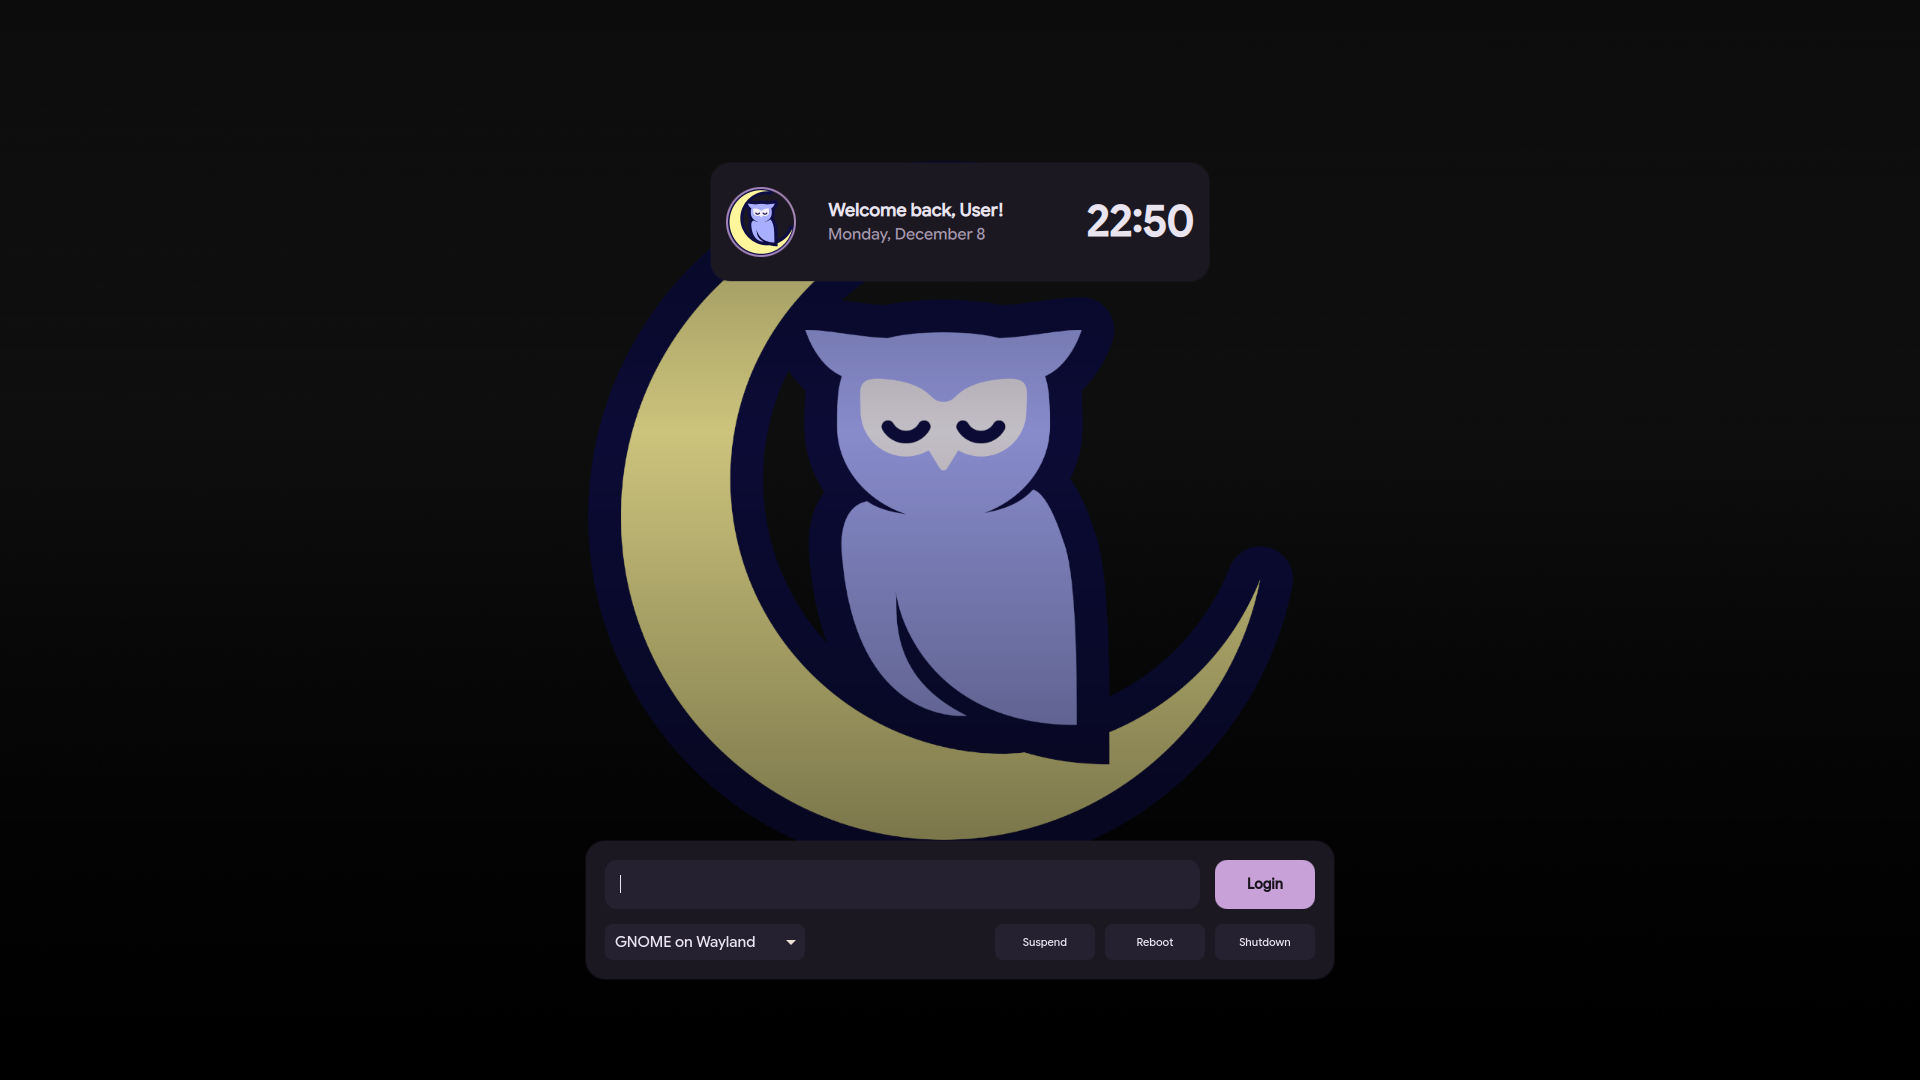
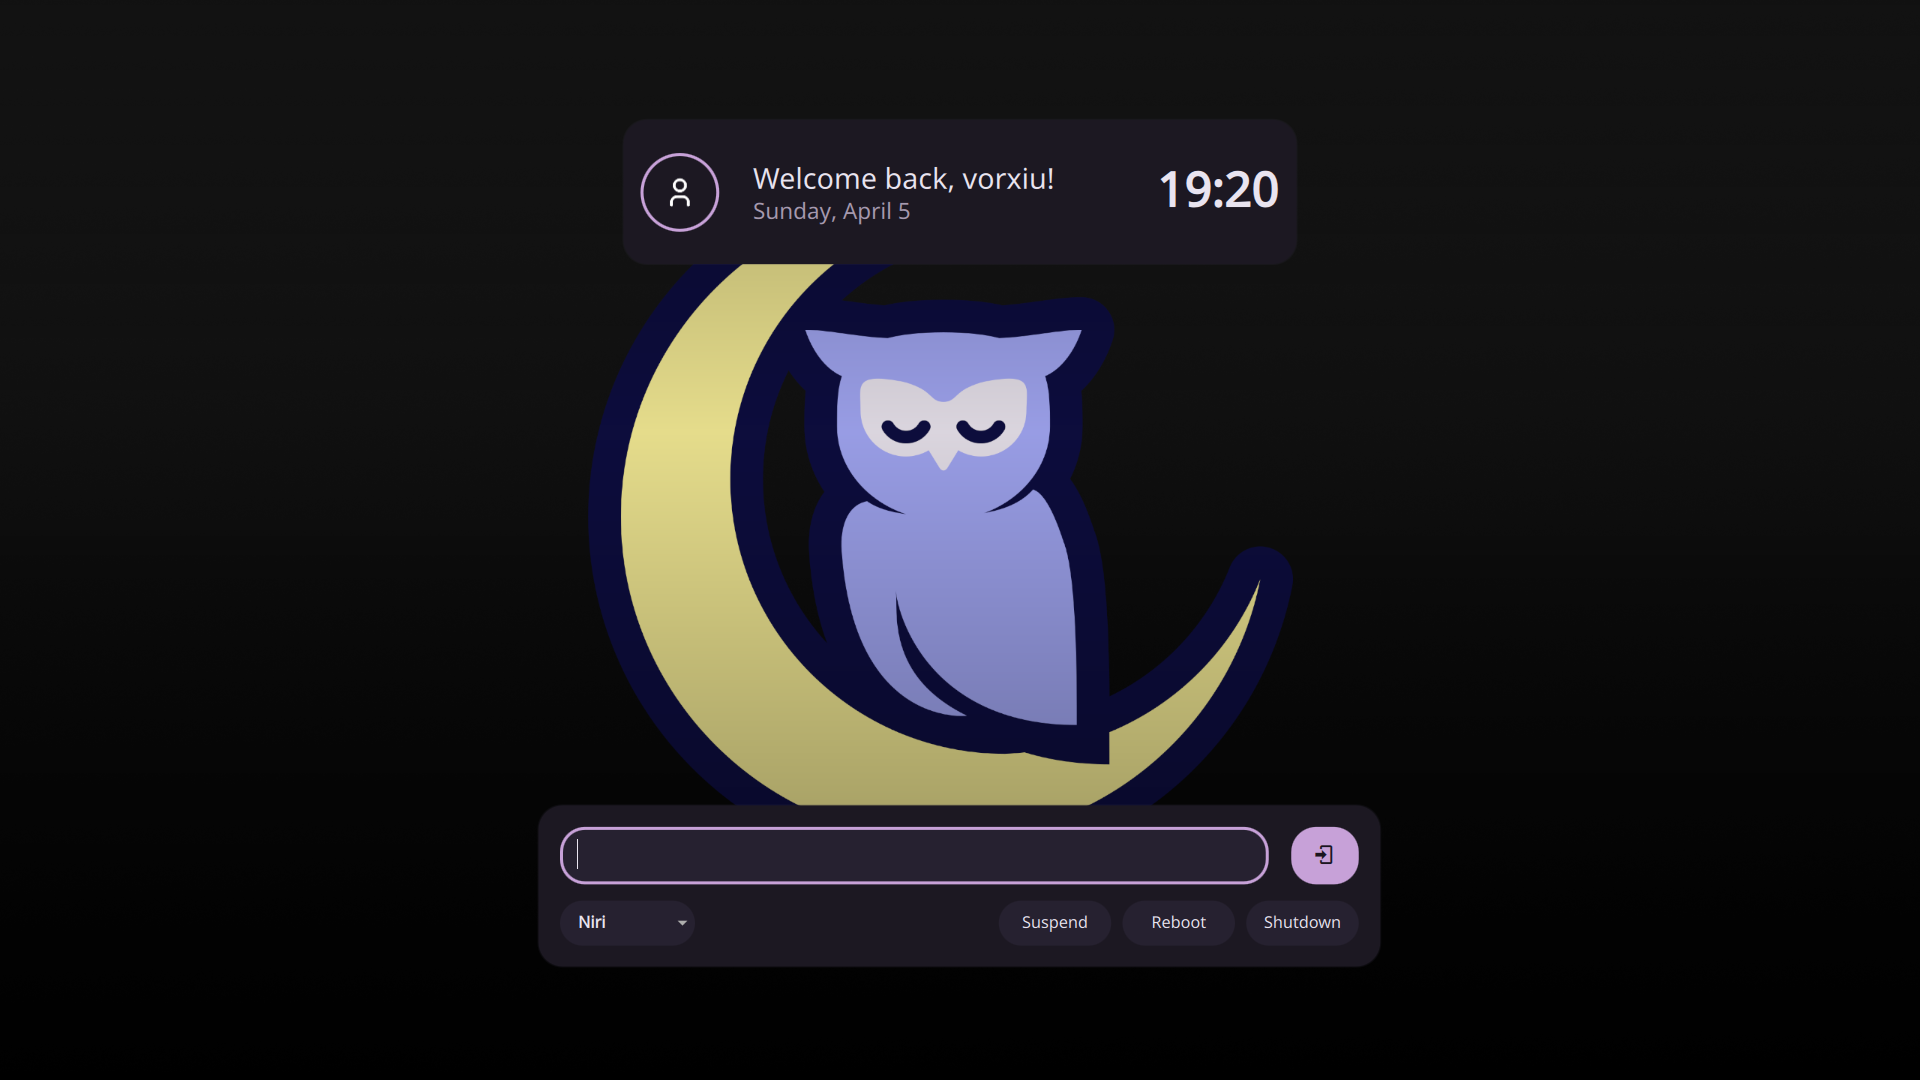
update readme

Changed region(s): [[0.2812, 0.1222, 0.7188, 0.9167], [0.5625, 0.1528, 0.6875, 0.2444]]

diff --git a/README.md b/README.md
@@ -1,8 +1,8 @@
 # Noctalia SDDM Theme
 
-Noctalia SDDM is a cozy, elegant login theme for **SDDM (Simple Desktop Display Manager)**, designed to complement the **Noctalia Shell** experience. It mimics the warm, dark aesthetic of the Rose Pine color palette, featuring rounded corners, smooth scaling, and a clean, modern interface tailored for Hyprland and KDE users.
+Noctalia SDDM is a cozy, elegant login theme for **SDDM (Simple Desktop Display Manager)**, designed to complement the **Noctalia Shell** experience.
 
-![Noctalia SDDM Preview](Assets/preview.png)
+![Noctalia SDDM Sync Preview](Assets/preview-sync.png)
 
 ## Features
 
@@ -12,7 +12,6 @@ Noctalia SDDM is a cozy, elegant login theme for **SDDM (Simple Desktop Display 
 - **Smart Avatar Handling** – Automatically detects user profile pictures or gracefully falls back to defaults.
 - **Session Management** – Built-in support for switching desktop sessions (Wayland/X11).
 
-- **Integrated Power Controls** – Suspend, Reboot, and Shutdown accessible directly from the login screen.
 - **Customizable Configuration** – easy tweaks via `theme.conf`.
 
 ## Installation
@@ -87,8 +86,11 @@ background=Assets/background.png
 blurRadius=0
 radius=20
 ```
+
 ## TODO
+- capslock,numlock and keyboard state indicators
 - animations
+- Some icons for Sessions
 
 ## Preview
 